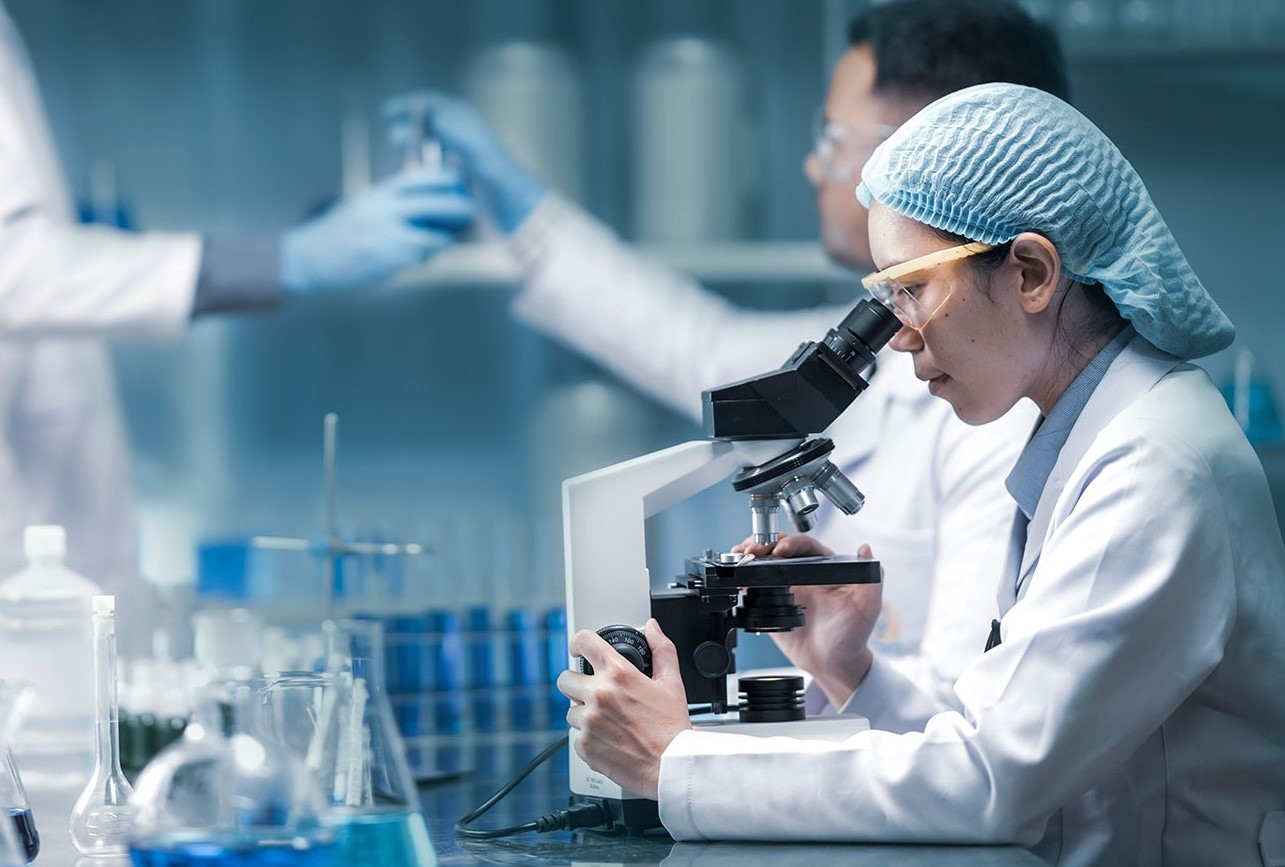
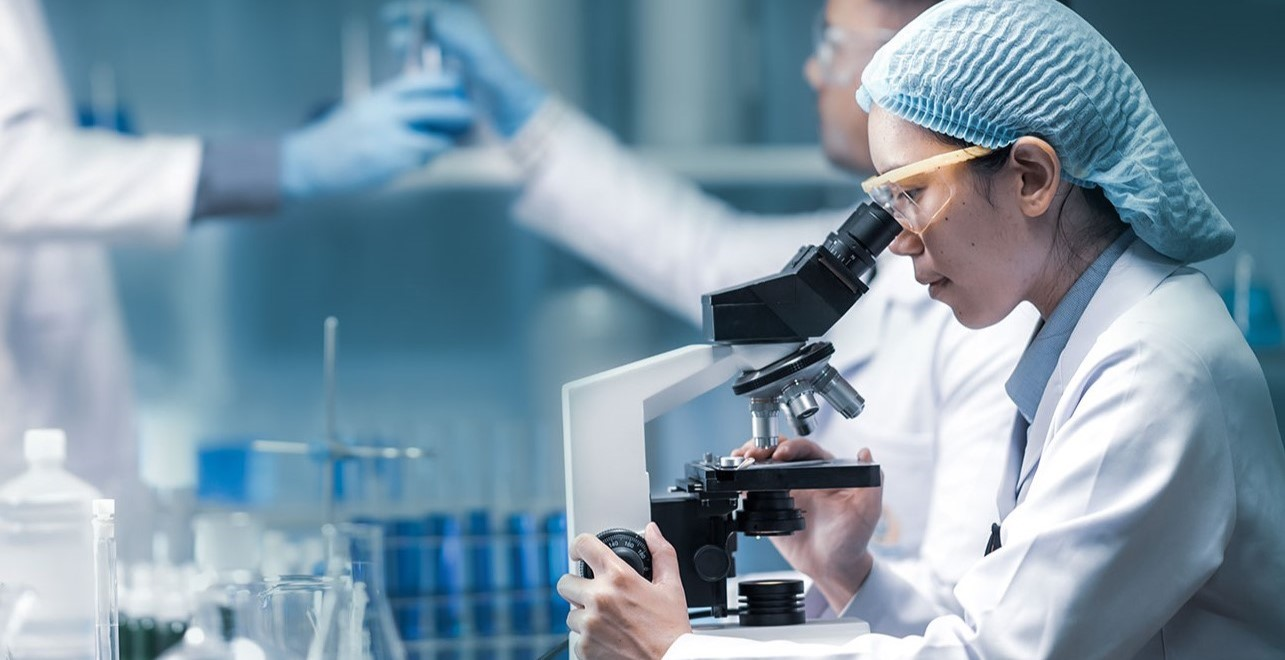
slideshow edit

diff --git a/public/css/homepage.css b/public/css/homepage.css
@@ -6,14 +6,10 @@
     font-family: 'Poppins', sans-serif;
 }
 .hero{
-    width: 100%;
-    min-height:100vh;
-    background-image: url(images/bacgrond.jpg);
-    background-position: center;
-    background-size: cover;
+
     padding: 10px 10%;
     overflow: hidden ;
-    position: relative;
+   
 }
 nav{
     padding: 10px;
@@ -52,22 +48,7 @@ nav ul li a{
     border-top-right-radius: 0;
     transition: 0.5s;
 }
-.content{
-    margin-top: 10%;
-    max-width: 600px;
-}
-.content h1{
-font-size: 70px;
-color: #222;
-}
-.content p{
-    margin: 10px 0 30px;
-    color:#333;
-}
-.content .btn{
-    padding: 15px 80px;
-    font-size: 16px;;
-}
+
 
 .btn:hover{
     border-top-right-radius:30px ;
@@ -81,13 +62,10 @@ img {vertical-align: middle;}
 
 /* Slideshow container */
 .slideshow-container {
-  max-width: 600px;
-  max-height: 600px;
-  width: 600px;
-  position: absolute;
-  right: 10%;
-  top: 300%;
-  
+  max-width: 100%;
+  min-height: 600px;
+  position: relative;
+  margin: auto;
 
 }
 

diff --git a/views/index.php b/views/index.php
@@ -45,38 +45,6 @@
         </div>
 
         
-        <div class="slideshow-container">
-
-<div class="mySlides fade">
-  
-  <img src="../public/images/slide6.png" style="width:600px">
-  
-</div>
-
-<div class="mySlides fade">
-  
-  <img src="../public/images/slide5.png.jpg" style="width:600px">
-  
-</div>
-
-<div class="mySlides fade">
-  
-  <img src="../public/images/slide7.jpg" style="width:600px">
-
-</div>
-
-<div class="mySlides fade">
-  
-  <img src="../public/images/slide1.png.jpg" style="width:600px">
-
-</div>
-
-<a class="prev" onclick="plusSlides(-1)">❮</a>
-<a class="next" onclick="plusSlides(1)">❯</a>
-
-</div>
-<br>
-
 <ul class="profile-dropdown-list">
           <li class="profile-dropdown-list-item">
             <a href="userprofle.php">
@@ -132,14 +100,7 @@
 
       </nav>
 
-    <div class="content">
-        <h1>Stay Home <br> & Order Online</h1>
-        <p>
-            Now you can shop online, select all what you need from the pharmacy through
-             our online store on web or on mobile app., and we will deliver it to you directly from our diffuse branches.
-        </p>
-        <a href="#" class="btn">Join Now</a>
-    </div>
+
     <!-- <img src="../public/images/doct.png.png" class="feature-img"> -->
  </div>
 
@@ -147,6 +108,38 @@
 
 
 
+
+ <div class="slideshow-container">
+
+<div class="mySlides fade">
+  
+  <img src="../public/images/slide1.png.jpg" width="100%" height="600">
+  
+</div>
+
+<div class="mySlides fade">
+  
+  <img src="../public/images/slide5.png.jpg" width="100%" height="600">
+  
+</div>
+
+<div class="mySlides fade">
+  
+  <img src="../public/images/slide7.jpg" width="100%" height="600">
+
+</div>
+
+<div class="mySlides fade">
+  
+  <img src="../public/images/slide6.png" width="100%" height="600">
+
+</div>
+
+<a class="prev" onclick="plusSlides(-1)">❮</a>
+<a class="next" onclick="plusSlides(1)">❯</a>
+
+</div>
+<br>
 
 <section class="section__container sale__container">
     <h2 class="section__title">OUR CATEGORIES </h2>
